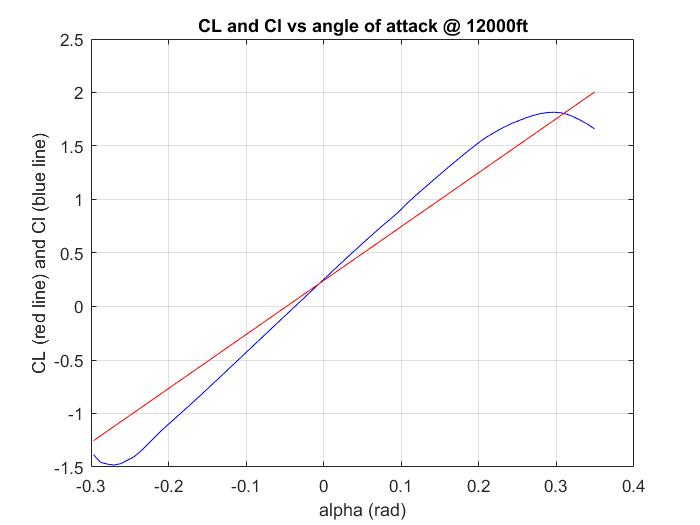
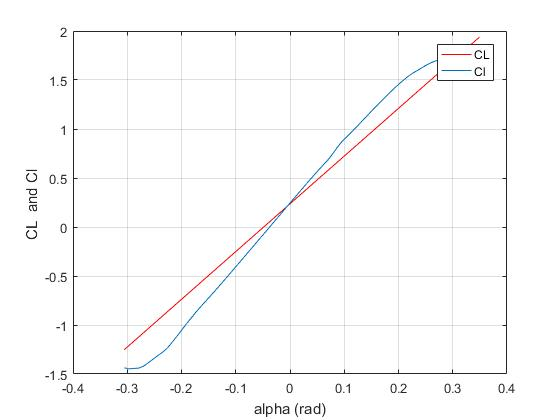
edited the maxalt plot

diff --git a/CL_alpha_3D.m b/CL_alpha_3D.m
@@ -48,6 +48,13 @@ CL_sea = CL_alpha_sea.*alpha_sea + Cl_0_sea;
 CL_pmax = CL_alpha_max*(16)*(pi/180) + Cl_0_max;
 CL_nmax = CL_alpha_max*(-14.5)*(pi/180) + Cl_0_max;
 
+% plot CL vs alpha at sea level
+plot(alpha_max,CL_max,'r')
+hold on
+plot(alpha_max,maxalt(:,2))
+
+
+%display final results
 disp('altitude    CL_alpha    CL_0    ');
 fprintf('\n12000ft     %8.4f',CL_alpha_max);
 fprintf('    %8.4f',Cl_0_max);
